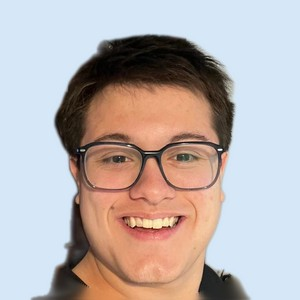
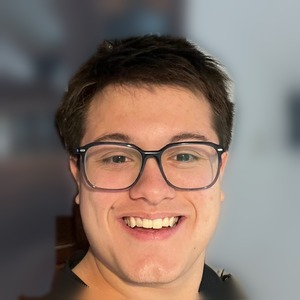
Inicio sin huecos, foto redonda con fondo difuminado, firma animada y pie de página nuevo

diff --git a/index.html b/index.html
@@ -89,14 +89,14 @@
     <!-- ============ INICIO ============ -->
     <section class="hero" id="inicio">
       <div class="wrap hero__grid">
-        <div class="hero__main">
-          <div class="hero__id">
-            <img class="hero__photo" src="assets/img/ignacio.jpg" alt="Foto de Ignacio Britos" width="300" height="300">
-            <div>
-              <h1 class="hero__name" data-split>Ignacio Britos</h1>
-              <p class="hero__role mono">desarrollador web full stack</p>
-            </div>
+        <div class="hero__id">
+          <img class="hero__photo" src="assets/img/ignacio.jpg" alt="Foto de Ignacio Britos" width="300" height="300">
+          <div>
+            <h1 class="hero__name" data-split>Ignacio Britos</h1>
+            <p class="hero__role mono">desarrollador web full stack</p>
           </div>
+        </div>
+        <div class="hero__main">
           <p class="hero__lead reveal">Hago webs a medida, del diseño al backend, pensadas para resolver la necesidad concreta de cada persona o negocio. Integro herramientas automáticas e IA para que la experiencia de quien la usa sea más simple y rápida.</p>
           <ul class="hero__meta reveal">
             <li>
@@ -662,12 +662,12 @@
             <span>escribime</span>
           </a>
           <a class="link-card reveal" href="https://github.com/IgnacioBritoss" target="_blank" rel="noopener">
-            <svg viewBox="0 0 24 24" aria-hidden="true"><circle cx="6" cy="5" r="2"/><circle cx="6" cy="19" r="2"/><circle cx="18" cy="8" r="2"/><path d="M6 7v10M18 10c0 4-6 3-11 7"/></svg>
+            <svg class="gh-mark" viewBox="0 0 16 16" aria-hidden="true"><path d="M8 0C3.58 0 0 3.58 0 8c0 3.54 2.29 6.53 5.47 7.59.4.07.55-.17.55-.38 0-.19-.01-.82-.01-1.49-2.01.37-2.53-.49-2.69-.94-.09-.23-.48-.94-.82-1.13-.28-.15-.68-.52-.01-.53.63-.01 1.08.58 1.23.82.72 1.21 1.87.87 2.33.66.07-.52.28-.87.51-1.07-1.78-.2-3.64-.89-3.64-3.95 0-.87.31-1.59.82-2.15-.08-.2-.36-1.02.08-2.12 0 0 .67-.21 2.2.82.64-.18 1.32-.27 2-.27.68 0 1.36.09 2 .27 1.53-1.04 2.2-.82 2.2-.82.44 1.1.16 1.92.08 2.12.51.56.82 1.27.82 2.15 0 3.07-1.87 3.75-3.65 3.95.29.25.54.73.54 1.48 0 1.07-.01 1.93-.01 2.2 0 .21.15.46.55.38A8.013 8.013 0 0016 8c0-4.42-3.58-8-8-8z"/></svg>
             <strong>IgnacioBritoss</strong>
             <span>en GitHub</span>
           </a>
           <div class="sign reveal">
-            <span class="firma firma--draw"><img class="firma__osc" src="assets/img/firma.png" alt="Firma de Ignacio Britos" width="467" height="189"><img class="firma__cla" src="assets/img/firma-clara.png" alt="" width="467" height="189"></span>
+            <svg class="firma-svg firma-svg--draw" viewBox="0 0 459 182" role="img" aria-label="Firma de Ignacio Britos"><path pathLength="1" style="--d:0.00s;--t:0.34s" d="M143.0 94.0 Q143.0 105.0 142.5 105.5 Q142.0 106.0 142.0 107.5 Q142.0 109.0 140.0 114.0 Q138.0 119.0 135.5 122.5 Q133.0 126.0 127.0 131.5 Q121.0 137.0 115.5 140.0 Q110.0 143.0 107.0 143.5 Q104.0 144.0 102.0 145.0 Q100.0 146.0 96.0 146.5 Q92.0 147.0 91.5 147.5 Q91.0 148.0 86.0 148.0 Q81.0 148.0 80.5 148.5 Q80.0 149.0 71.5 148.5 Q63.0 148.0 62.5 147.5 Q62.0 147.0 57.5 146.5 Q53.0 146.0 46.0 144.0 Q39.0 142.0 35.5 140.0 Q32.0 138.0 31.0 138.0 Q30.0 138.0 22.5 133.0 Q15.0 128.0 13.5 126.5 Q12.0 125.0 10.0 121.5 Q8.0 118.0 8.0 112.5 Q8.0 107.0 13.5 101.0 Q19.0 95.0 24.0 92.0 Q29.0 89.0 28.5 88.5 Q28.0 88.0 28.5 85.0 Q29.0 82.0 31.5 79.5 Q34.0 77.0 38.0 74.5 Q42.0 72.0 49.0 70.0 Q56.0 68.0 63.0 67.5 L70.0 67.0"/><path pathLength="1" style="--d:0.39s;--t:0.27s" d="M27.0 33.0 Q33.0 28.0 39.0 25.0 Q45.0 22.0 46.5 22.0 Q48.0 22.0 50.0 21.0 Q52.0 20.0 55.0 20.0 Q58.0 20.0 60.0 19.0 Q62.0 18.0 71.5 17.5 Q81.0 17.0 81.5 16.5 Q82.0 16.0 94.0 16.0 Q106.0 16.0 106.5 16.5 Q107.0 17.0 109.5 17.0 Q112.0 17.0 116.0 18.5 Q120.0 20.0 122.0 21.5 Q124.0 23.0 127.0 26.5 Q130.0 30.0 132.0 35.0 Q134.0 40.0 134.0 45.5 Q134.0 51.0 132.0 56.0 Q130.0 61.0 126.0 66.0 Q122.0 71.0 119.5 71.0 Q117.0 71.0 116.5 71.5 Q116.0 72.0 115.0 71.0 Q114.0 70.0 112.5 70.0 Q111.0 70.0 110.5 69.5 Q110.0 69.0 102.5 68.5 Q95.0 68.0 94.5 67.5 Q94.0 67.0 84.0 67.0 L74.0 67.0"/><path pathLength="1" style="--d:0.71s;--t:0.06s" d="M30.0 89.0 Q33.0 87.0 34.5 87.0 Q36.0 87.0 37.5 86.0 Q39.0 85.0 44.0 83.5 Q49.0 82.0 54.5 81.5 Q60.0 81.0 60.5 80.5 Q61.0 80.0 67.5 80.0 Q74.0 80.0 74.5 79.5 L75.0 79.0"/><path pathLength="1" style="--d:0.82s;--t:0.07s" d="M30.0 91.0 Q33.0 95.0 37.5 96.5 Q42.0 98.0 49.0 98.0 Q56.0 98.0 56.5 97.5 Q57.0 97.0 62.0 96.5 Q67.0 96.0 69.0 95.0 Q71.0 94.0 75.0 93.5 Q79.0 93.0 79.5 92.5 L80.0 92.0"/><path pathLength="1" style="--d:0.94s;--t:0.06s" d="M57 9 L59 18"/><path pathLength="1" style="--d:1.05s;--t:0.06s" d="M60.0 20.0 Q61.0 30.0 61.5 30.5 Q62.0 31.0 63.0 36.5 Q64.0 42.0 65.0 44.0 Q66.0 46.0 66.0 47.5 Q66.0 49.0 67.0 51.0 Q68.0 53.0 68.0 54.5 Q68.0 56.0 69.0 57.5 Q70.0 59.0 70.5 62.5 L71.0 66.0"/><path pathLength="1" style="--d:1.16s;--t:0.06s" d="M73.0 68.0 Q74.0 69.0 74.5 74.0 L75.0 79.0"/><path pathLength="1" style="--d:1.27s;--t:0.06s" d="M78 81 L80 90"/><path pathLength="1" style="--d:1.38s;--t:0.08s" d="M79.0 80.0 Q95.0 80.0 96.0 81.0 Q97.0 82.0 102.5 82.0 Q108.0 82.0 109.5 83.0 Q111.0 84.0 118.0 86.0 Q125.0 88.0 128.0 89.5 Q131.0 91.0 135.5 91.5 L140.0 92.0"/><path pathLength="1" style="--d:1.51s;--t:0.06s" d="M81.0 92.0 Q93.0 125.0 93.0 127.0 L93.0 129.0"/><path pathLength="1" style="--d:1.62s;--t:0.06s" d="M82.0 91.0 Q93.0 87.0 95.0 84.5 L97.0 82.0"/><path pathLength="1" style="--d:1.73s;--t:0.06s" d="M108.0 81.0 Q114.0 76.0 115.0 74.0 L116.0 72.0"/><path pathLength="1" style="--d:1.84s;--t:0.06s" d="M123.0 72.0 Q131.0 76.0 134.5 79.0 Q138.0 82.0 139.0 83.5 Q140.0 85.0 140.5 88.0 L141.0 91.0"/><path pathLength="1" style="--d:1.95s;--t:0.23s" d="M144.0 93.0 Q153.0 93.0 156.0 91.5 Q159.0 90.0 161.0 88.0 Q163.0 86.0 164.0 84.0 Q165.0 82.0 166.5 74.5 Q168.0 67.0 170.5 64.5 Q173.0 62.0 174.5 62.0 Q176.0 62.0 176.5 61.5 Q177.0 61.0 182.5 61.0 Q188.0 61.0 189.5 62.0 Q191.0 63.0 191.5 64.5 Q192.0 66.0 192.0 70.5 Q192.0 75.0 194.5 79.5 Q197.0 84.0 199.5 86.5 Q202.0 89.0 204.0 89.0 Q206.0 89.0 207.5 87.0 Q209.0 85.0 210.5 80.5 Q212.0 76.0 212.5 71.0 Q213.0 66.0 213.5 65.5 Q214.0 65.0 213.0 57.5 Q212.0 50.0 208.5 47.0 Q205.0 44.0 203.5 41.5 Q202.0 39.0 199.0 37.0 Q196.0 35.0 193.5 32.5 Q191.0 30.0 190.5 30.5 Q190.0 31.0 188.5 31.0 Q187.0 31.0 186.5 30.5 Q186.0 30.0 184.5 30.5 L183.0 31.0"/><path pathLength="1" style="--d:2.23s;--t:0.33s" d="M184.0 142.0 Q202.0 139.0 202.5 138.5 Q203.0 138.0 211.5 137.0 Q220.0 136.0 220.5 135.5 Q221.0 135.0 223.0 135.0 Q225.0 135.0 225.5 134.5 Q226.0 134.0 228.0 134.0 Q230.0 134.0 230.5 133.5 Q231.0 133.0 233.0 133.0 Q235.0 133.0 235.5 132.5 Q236.0 132.0 238.0 132.0 Q240.0 132.0 243.0 131.0 Q246.0 130.0 248.5 130.0 Q251.0 130.0 254.0 129.0 Q257.0 128.0 265.5 127.0 Q274.0 126.0 274.5 125.5 Q275.0 125.0 282.5 123.5 Q290.0 122.0 291.5 120.0 Q293.0 118.0 296.0 117.5 Q299.0 117.0 303.5 115.0 Q308.0 113.0 310.5 112.5 Q313.0 112.0 314.5 111.0 Q316.0 110.0 318.5 109.5 Q321.0 109.0 332.0 103.5 Q343.0 98.0 349.0 94.0 Q355.0 90.0 357.5 87.5 Q360.0 85.0 360.5 83.0 Q361.0 81.0 360.5 80.5 Q360.0 80.0 355.0 80.5 Q350.0 81.0 346.0 82.5 Q342.0 84.0 333.0 86.0 Q324.0 88.0 322.0 89.0 Q320.0 90.0 318.0 90.0 Q316.0 90.0 315.5 90.5 Q315.0 91.0 313.0 90.5 Q311.0 90.0 304.5 92.5 L298.0 95.0"/><path pathLength="1" style="--d:2.61s;--t:0.09s" d="M193.0 30.0 Q194.0 29.0 203.0 29.0 Q212.0 29.0 212.5 29.5 Q213.0 30.0 216.0 30.0 Q219.0 30.0 220.0 31.0 Q221.0 32.0 226.5 32.0 Q232.0 32.0 232.5 31.5 Q233.0 31.0 248.0 31.0 Q263.0 31.0 263.5 30.5 L264.0 30.0"/><path pathLength="1" style="--d:2.76s;--t:0.06s" d="M204.0 40.0 Q207.0 37.0 212.5 36.0 Q218.0 35.0 219.5 33.5 L221.0 32.0"/><path pathLength="1" style="--d:2.87s;--t:0.07s" d="M213.0 50.0 Q219.0 50.0 225.5 52.5 Q232.0 55.0 234.0 57.0 Q236.0 59.0 236.5 60.5 Q237.0 62.0 237.0 70.5 Q237.0 79.0 238.0 80.0 Q239.0 81.0 238.0 82.5 Q237.0 84.0 237.0 85.5 L237.0 87.0"/><path pathLength="1" style="--d:2.99s;--t:0.19s" d="M239.0 81.0 Q242.0 81.0 244.5 83.5 Q247.0 86.0 250.5 87.0 Q254.0 88.0 266.5 88.5 Q279.0 89.0 279.5 88.5 Q280.0 88.0 282.0 88.0 Q284.0 88.0 285.5 86.5 Q287.0 85.0 287.5 83.5 Q288.0 82.0 291.5 82.0 Q295.0 82.0 298.0 81.0 Q301.0 80.0 313.0 74.0 Q325.0 68.0 329.5 66.5 Q334.0 65.0 337.0 65.0 Q340.0 65.0 340.5 65.5 Q341.0 66.0 340.5 67.5 Q340.0 69.0 338.0 71.0 Q336.0 73.0 325.5 79.0 Q315.0 85.0 314.0 87.0 L313.0 89.0"/><path pathLength="1" style="--d:3.23s;--t:0.06s" d="M243.0 80.0 Q248.0 77.0 259.0 76.5 Q270.0 76.0 274.0 78.0 Q278.0 80.0 279.5 80.0 Q281.0 80.0 282.5 81.0 Q284.0 82.0 285.0 82.0 L286.0 82.0"/><path pathLength="1" style="--d:3.34s;--t:0.23s" d="M281.0 172.0 Q283.0 173.0 287.0 171.0 Q291.0 169.0 292.0 170.0 Q293.0 171.0 294.0 171.0 Q295.0 171.0 297.0 170.0 Q299.0 169.0 309.5 166.5 Q320.0 164.0 325.0 162.0 Q330.0 160.0 331.5 160.0 Q333.0 160.0 338.0 158.0 Q343.0 156.0 344.5 156.0 Q346.0 156.0 397.5 138.0 L449.0 120.0"/><path pathLength="1" style="--d:3.61s;--t:0.33s" d="M290.0 122.0 Q292.0 124.0 293.5 124.0 Q295.0 124.0 295.5 123.5 Q296.0 123.0 306.5 122.0 Q317.0 121.0 320.5 120.0 Q324.0 119.0 327.0 119.0 Q330.0 119.0 333.5 118.0 Q337.0 117.0 350.5 115.5 Q364.0 114.0 364.5 113.5 Q365.0 113.0 378.0 111.5 Q391.0 110.0 391.5 109.5 Q392.0 109.0 396.5 109.0 Q401.0 109.0 401.5 108.5 Q402.0 108.0 406.0 108.0 Q410.0 108.0 410.5 108.5 Q411.0 109.0 411.0 110.0 Q411.0 111.0 409.5 112.5 Q408.0 114.0 405.0 115.0 Q402.0 116.0 398.0 118.5 Q394.0 121.0 393.0 121.0 Q392.0 121.0 386.5 124.0 Q381.0 127.0 380.0 127.0 Q379.0 127.0 374.5 129.5 Q370.0 132.0 369.0 132.0 Q368.0 132.0 351.0 140.0 Q334.0 148.0 330.5 149.0 Q327.0 150.0 318.0 154.5 Q309.0 159.0 305.5 160.0 Q302.0 161.0 297.0 164.5 L292.0 168.0"/></svg>
             <p class="mono">Ignacio Britos</p>
           </div>
         </div>
@@ -677,9 +677,28 @@
 
   <footer class="footer">
     <div class="wrap footer__in">
-      <span class="footer__me"><img class="firma firma--foot" src="assets/img/firma-clara.png" alt="Firma de Ignacio Britos" width="467" height="189">Ignacio Britos, Buenos Aires</span>
-      <a href="https://github.com/IgnacioBritoss" target="_blank" rel="noopener">GitHub</a>
-      <a href="#inicio">Volver arriba</a>
+      <div class="footer__me">
+        <svg class="firma-svg" viewBox="0 0 459 182" aria-hidden="true"><path d="M143.0 94.0 Q143.0 105.0 142.5 105.5 Q142.0 106.0 142.0 107.5 Q142.0 109.0 140.0 114.0 Q138.0 119.0 135.5 122.5 Q133.0 126.0 127.0 131.5 Q121.0 137.0 115.5 140.0 Q110.0 143.0 107.0 143.5 Q104.0 144.0 102.0 145.0 Q100.0 146.0 96.0 146.5 Q92.0 147.0 91.5 147.5 Q91.0 148.0 86.0 148.0 Q81.0 148.0 80.5 148.5 Q80.0 149.0 71.5 148.5 Q63.0 148.0 62.5 147.5 Q62.0 147.0 57.5 146.5 Q53.0 146.0 46.0 144.0 Q39.0 142.0 35.5 140.0 Q32.0 138.0 31.0 138.0 Q30.0 138.0 22.5 133.0 Q15.0 128.0 13.5 126.5 Q12.0 125.0 10.0 121.5 Q8.0 118.0 8.0 112.5 Q8.0 107.0 13.5 101.0 Q19.0 95.0 24.0 92.0 Q29.0 89.0 28.5 88.5 Q28.0 88.0 28.5 85.0 Q29.0 82.0 31.5 79.5 Q34.0 77.0 38.0 74.5 Q42.0 72.0 49.0 70.0 Q56.0 68.0 63.0 67.5 L70.0 67.0"/><path d="M27.0 33.0 Q33.0 28.0 39.0 25.0 Q45.0 22.0 46.5 22.0 Q48.0 22.0 50.0 21.0 Q52.0 20.0 55.0 20.0 Q58.0 20.0 60.0 19.0 Q62.0 18.0 71.5 17.5 Q81.0 17.0 81.5 16.5 Q82.0 16.0 94.0 16.0 Q106.0 16.0 106.5 16.5 Q107.0 17.0 109.5 17.0 Q112.0 17.0 116.0 18.5 Q120.0 20.0 122.0 21.5 Q124.0 23.0 127.0 26.5 Q130.0 30.0 132.0 35.0 Q134.0 40.0 134.0 45.5 Q134.0 51.0 132.0 56.0 Q130.0 61.0 126.0 66.0 Q122.0 71.0 119.5 71.0 Q117.0 71.0 116.5 71.5 Q116.0 72.0 115.0 71.0 Q114.0 70.0 112.5 70.0 Q111.0 70.0 110.5 69.5 Q110.0 69.0 102.5 68.5 Q95.0 68.0 94.5 67.5 Q94.0 67.0 84.0 67.0 L74.0 67.0"/><path d="M30.0 89.0 Q33.0 87.0 34.5 87.0 Q36.0 87.0 37.5 86.0 Q39.0 85.0 44.0 83.5 Q49.0 82.0 54.5 81.5 Q60.0 81.0 60.5 80.5 Q61.0 80.0 67.5 80.0 Q74.0 80.0 74.5 79.5 L75.0 79.0"/><path d="M30.0 91.0 Q33.0 95.0 37.5 96.5 Q42.0 98.0 49.0 98.0 Q56.0 98.0 56.5 97.5 Q57.0 97.0 62.0 96.5 Q67.0 96.0 69.0 95.0 Q71.0 94.0 75.0 93.5 Q79.0 93.0 79.5 92.5 L80.0 92.0"/><path d="M57 9 L59 18"/><path d="M60.0 20.0 Q61.0 30.0 61.5 30.5 Q62.0 31.0 63.0 36.5 Q64.0 42.0 65.0 44.0 Q66.0 46.0 66.0 47.5 Q66.0 49.0 67.0 51.0 Q68.0 53.0 68.0 54.5 Q68.0 56.0 69.0 57.5 Q70.0 59.0 70.5 62.5 L71.0 66.0"/><path d="M73.0 68.0 Q74.0 69.0 74.5 74.0 L75.0 79.0"/><path d="M78 81 L80 90"/><path d="M79.0 80.0 Q95.0 80.0 96.0 81.0 Q97.0 82.0 102.5 82.0 Q108.0 82.0 109.5 83.0 Q111.0 84.0 118.0 86.0 Q125.0 88.0 128.0 89.5 Q131.0 91.0 135.5 91.5 L140.0 92.0"/><path d="M81.0 92.0 Q93.0 125.0 93.0 127.0 L93.0 129.0"/><path d="M82.0 91.0 Q93.0 87.0 95.0 84.5 L97.0 82.0"/><path d="M108.0 81.0 Q114.0 76.0 115.0 74.0 L116.0 72.0"/><path d="M123.0 72.0 Q131.0 76.0 134.5 79.0 Q138.0 82.0 139.0 83.5 Q140.0 85.0 140.5 88.0 L141.0 91.0"/><path d="M144.0 93.0 Q153.0 93.0 156.0 91.5 Q159.0 90.0 161.0 88.0 Q163.0 86.0 164.0 84.0 Q165.0 82.0 166.5 74.5 Q168.0 67.0 170.5 64.5 Q173.0 62.0 174.5 62.0 Q176.0 62.0 176.5 61.5 Q177.0 61.0 182.5 61.0 Q188.0 61.0 189.5 62.0 Q191.0 63.0 191.5 64.5 Q192.0 66.0 192.0 70.5 Q192.0 75.0 194.5 79.5 Q197.0 84.0 199.5 86.5 Q202.0 89.0 204.0 89.0 Q206.0 89.0 207.5 87.0 Q209.0 85.0 210.5 80.5 Q212.0 76.0 212.5 71.0 Q213.0 66.0 213.5 65.5 Q214.0 65.0 213.0 57.5 Q212.0 50.0 208.5 47.0 Q205.0 44.0 203.5 41.5 Q202.0 39.0 199.0 37.0 Q196.0 35.0 193.5 32.5 Q191.0 30.0 190.5 30.5 Q190.0 31.0 188.5 31.0 Q187.0 31.0 186.5 30.5 Q186.0 30.0 184.5 30.5 L183.0 31.0"/><path d="M184.0 142.0 Q202.0 139.0 202.5 138.5 Q203.0 138.0 211.5 137.0 Q220.0 136.0 220.5 135.5 Q221.0 135.0 223.0 135.0 Q225.0 135.0 225.5 134.5 Q226.0 134.0 228.0 134.0 Q230.0 134.0 230.5 133.5 Q231.0 133.0 233.0 133.0 Q235.0 133.0 235.5 132.5 Q236.0 132.0 238.0 132.0 Q240.0 132.0 243.0 131.0 Q246.0 130.0 248.5 130.0 Q251.0 130.0 254.0 129.0 Q257.0 128.0 265.5 127.0 Q274.0 126.0 274.5 125.5 Q275.0 125.0 282.5 123.5 Q290.0 122.0 291.5 120.0 Q293.0 118.0 296.0 117.5 Q299.0 117.0 303.5 115.0 Q308.0 113.0 310.5 112.5 Q313.0 112.0 314.5 111.0 Q316.0 110.0 318.5 109.5 Q321.0 109.0 332.0 103.5 Q343.0 98.0 349.0 94.0 Q355.0 90.0 357.5 87.5 Q360.0 85.0 360.5 83.0 Q361.0 81.0 360.5 80.5 Q360.0 80.0 355.0 80.5 Q350.0 81.0 346.0 82.5 Q342.0 84.0 333.0 86.0 Q324.0 88.0 322.0 89.0 Q320.0 90.0 318.0 90.0 Q316.0 90.0 315.5 90.5 Q315.0 91.0 313.0 90.5 Q311.0 90.0 304.5 92.5 L298.0 95.0"/><path d="M193.0 30.0 Q194.0 29.0 203.0 29.0 Q212.0 29.0 212.5 29.5 Q213.0 30.0 216.0 30.0 Q219.0 30.0 220.0 31.0 Q221.0 32.0 226.5 32.0 Q232.0 32.0 232.5 31.5 Q233.0 31.0 248.0 31.0 Q263.0 31.0 263.5 30.5 L264.0 30.0"/><path d="M204.0 40.0 Q207.0 37.0 212.5 36.0 Q218.0 35.0 219.5 33.5 L221.0 32.0"/><path d="M213.0 50.0 Q219.0 50.0 225.5 52.5 Q232.0 55.0 234.0 57.0 Q236.0 59.0 236.5 60.5 Q237.0 62.0 237.0 70.5 Q237.0 79.0 238.0 80.0 Q239.0 81.0 238.0 82.5 Q237.0 84.0 237.0 85.5 L237.0 87.0"/><path d="M239.0 81.0 Q242.0 81.0 244.5 83.5 Q247.0 86.0 250.5 87.0 Q254.0 88.0 266.5 88.5 Q279.0 89.0 279.5 88.5 Q280.0 88.0 282.0 88.0 Q284.0 88.0 285.5 86.5 Q287.0 85.0 287.5 83.5 Q288.0 82.0 291.5 82.0 Q295.0 82.0 298.0 81.0 Q301.0 80.0 313.0 74.0 Q325.0 68.0 329.5 66.5 Q334.0 65.0 337.0 65.0 Q340.0 65.0 340.5 65.5 Q341.0 66.0 340.5 67.5 Q340.0 69.0 338.0 71.0 Q336.0 73.0 325.5 79.0 Q315.0 85.0 314.0 87.0 L313.0 89.0"/><path d="M243.0 80.0 Q248.0 77.0 259.0 76.5 Q270.0 76.0 274.0 78.0 Q278.0 80.0 279.5 80.0 Q281.0 80.0 282.5 81.0 Q284.0 82.0 285.0 82.0 L286.0 82.0"/><path d="M281.0 172.0 Q283.0 173.0 287.0 171.0 Q291.0 169.0 292.0 170.0 Q293.0 171.0 294.0 171.0 Q295.0 171.0 297.0 170.0 Q299.0 169.0 309.5 166.5 Q320.0 164.0 325.0 162.0 Q330.0 160.0 331.5 160.0 Q333.0 160.0 338.0 158.0 Q343.0 156.0 344.5 156.0 Q346.0 156.0 397.5 138.0 L449.0 120.0"/><path d="M290.0 122.0 Q292.0 124.0 293.5 124.0 Q295.0 124.0 295.5 123.5 Q296.0 123.0 306.5 122.0 Q317.0 121.0 320.5 120.0 Q324.0 119.0 327.0 119.0 Q330.0 119.0 333.5 118.0 Q337.0 117.0 350.5 115.5 Q364.0 114.0 364.5 113.5 Q365.0 113.0 378.0 111.5 Q391.0 110.0 391.5 109.5 Q392.0 109.0 396.5 109.0 Q401.0 109.0 401.5 108.5 Q402.0 108.0 406.0 108.0 Q410.0 108.0 410.5 108.5 Q411.0 109.0 411.0 110.0 Q411.0 111.0 409.5 112.5 Q408.0 114.0 405.0 115.0 Q402.0 116.0 398.0 118.5 Q394.0 121.0 393.0 121.0 Q392.0 121.0 386.5 124.0 Q381.0 127.0 380.0 127.0 Q379.0 127.0 374.5 129.5 Q370.0 132.0 369.0 132.0 Q368.0 132.0 351.0 140.0 Q334.0 148.0 330.5 149.0 Q327.0 150.0 318.0 154.5 Q309.0 159.0 305.5 160.0 Q302.0 161.0 297.0 164.5 L292.0 168.0"/></svg>
+        <div>
+          <b>Ignacio Britos</b>
+          <span>Desarrollador web, Buenos Aires</span>
+        </div>
+      </div>
+      <nav class="footer__nav mono" aria-label="Secciones">
+        <a href="#inicio">Inicio</a>
+        <a href="#proyectos">Proyectos</a>
+        <a href="#datos">Datos</a>
+        <a href="#contacto">Contacto</a>
+      </nav>
+      <div class="footer__icons">
+        <a class="footer__ico" href="mailto:britosignacio106@gmail.com" aria-label="Escribime un mail" data-tip="Mail"><svg viewBox="0 0 24 24" aria-hidden="true"><rect x="3" y="5" width="18" height="14"/><path d="M3 6l9 7 9-7"/></svg></a>
+        <a class="footer__ico" href="https://github.com/IgnacioBritoss" target="_blank" rel="noopener" aria-label="Mi GitHub" data-tip="GitHub"><svg class="gh-mark" viewBox="0 0 16 16" aria-hidden="true"><path d="M8 0C3.58 0 0 3.58 0 8c0 3.54 2.29 6.53 5.47 7.59.4.07.55-.17.55-.38 0-.19-.01-.82-.01-1.49-2.01.37-2.53-.49-2.69-.94-.09-.23-.48-.94-.82-1.13-.28-.15-.68-.52-.01-.53.63-.01 1.08.58 1.23.82.72 1.21 1.87.87 2.33.66.07-.52.28-.87.51-1.07-1.78-.2-3.64-.89-3.64-3.95 0-.87.31-1.59.82-2.15-.08-.2-.36-1.02.08-2.12 0 0 .67-.21 2.2.82.64-.18 1.32-.27 2-.27.68 0 1.36.09 2 .27 1.53-1.04 2.2-.82 2.2-.82.44 1.1.16 1.92.08 2.12.51.56.82 1.27.82 2.15 0 3.07-1.87 3.75-3.65 3.95.29.25.54.73.54 1.48 0 1.07-.01 1.93-.01 2.2 0 .21.15.46.55.38A8.013 8.013 0 0016 8c0-4.42-3.58-8-8-8z"/></svg></a>
+        <a class="footer__ico footer__up" href="#inicio" aria-label="Volver arriba" data-tip="Arriba"><svg viewBox="0 0 24 24" aria-hidden="true"><path d="M12 19V5M5 12l7-7 7 7"/></svg></a>
+      </div>
+    </div>
+    <div class="wrap footer__bottom mono">
+      <span>© 2026 Ignacio Britos</span>
+      <a href="https://github.com/IgnacioBritoss" target="_blank" rel="noopener">github.com/IgnacioBritoss</a>
     </div>
   </footer>
 

diff --git a/styles.css b/styles.css
@@ -29,6 +29,7 @@
   --wait: #B7791F;
 
   --font: "Space Grotesk", system-ui, sans-serif;
+  --font-head: "Space Grotesk", system-ui, sans-serif;
   --mono: "JetBrains Mono", ui-monospace, monospace;
   /* arranca fuerte y frena largo */
   --salida: cubic-bezier(.22, 1, .36, 1);
@@ -79,6 +80,7 @@ p, li, label, figcaption, td { letter-spacing: var(--tracking); word-spacing: va
 
 html { scroll-behavior: smooth; scroll-padding-top: 76px; }
 
+html, body { overflow-x: clip; }
 body {
   margin: 0;
   font-family: var(--font);
@@ -95,7 +97,8 @@ body {
 img { display: block; max-width: 100%; height: auto; }
 svg { flex-shrink: 0; }
 a { color: inherit; }
-h1, h2, h3 { margin: 0; line-height: 1.15; font-weight: 700; letter-spacing: -.01em; }
+h1, h2, h3 { margin: 0; font-family: var(--font-head); line-height: 1.15; font-weight: 700; letter-spacing: -.01em; }
+.proj__name, .brand, .btn, .stat strong, .hero__stats strong, .fact strong, .link-card strong { font-family: var(--font-head); }
 p { margin: 0; }
 ul, ol { margin: 0; padding: 0; list-style: none; }
 button, input, textarea { font: inherit; color: inherit; letter-spacing: inherit; }
@@ -237,15 +240,18 @@ svg[viewBox="0 0 24 24"] {
 
 /* ---------- Hero ---------- */
 .hero { padding: 72px 0 56px; }
-.hero__grid { display: grid; grid-template-columns: 1.25fr 1fr; gap: 40px; align-items: stretch; }
-.hero__id { display: flex; align-items: center; gap: 24px; margin-bottom: 28px; }
+.hero__grid { display: grid; grid-template-columns: 1.15fr 1fr; gap: 28px 56px; align-items: start; }
+.hero__id { grid-column: 1 / -1; display: flex; align-items: center; gap: 28px; margin-bottom: 4px; }
 .hero__photo {
-  width: 128px; height: 128px; object-fit: cover;
-  border: 4px solid var(--sky); background: var(--mist);
+  width: 136px; height: 136px; object-fit: cover; flex-shrink: 0;
+  border-radius: 50% !important; background: var(--mist);
+  /* aro celeste con un respiro del color del fondo */
+  box-shadow: 0 0 0 4px var(--bg), 0 0 0 7px var(--sky), 0 14px 30px -12px rgba(16, 36, 58, .5);
 }
 .hero__name { font-size: clamp(2.6rem, 6vw, 4.4rem); }
 .hero__role { color: var(--accent-text); margin-top: 6px; font-size: 15px; }
-.hero__lead { font-size: clamp(1.15rem, 2vw, 1.4rem); max-width: 34ch; margin-bottom: 24px; }
+.hero__lead { font-size: clamp(1.1rem, 1.8vw, 1.3rem); max-width: 40ch; margin-bottom: 24px; }
+:root[data-reading="on"] .hero__lead { line-height: 1.7; }
 .hero__meta { display: grid; gap: 8px; color: var(--muted); margin-bottom: 32px; }
 .hero__meta li { display: flex; align-items: center; gap: 10px; }
 .hero__meta svg { color: var(--accent); }
@@ -261,7 +267,7 @@ svg[viewBox="0 0 24 24"] {
 .no-js .hero__photo, .no-js .hero__role { animation: none; }
 @keyframes fade-up { from { opacity: 0; transform: translateY(14px); } }
 
-.hero__side { display: grid; gap: 16px; align-content: end; }
+.hero__side { display: grid; gap: 16px; align-content: start; }
 .next { background: var(--blue); color: #fff; padding: 28px; }
 .next__title { font-size: 1.5rem; margin-bottom: 8px; }
 .next p { color: var(--mist); }
@@ -657,24 +663,52 @@ svg[viewBox="0 0 24 24"] {
 .link-card--dark span { color: #A3B6CA; }
 
 /* ---------- Firma ---------- */
-.firma { display: inline-block; }
-.firma img { display: block; width: 100%; height: auto; }
-.firma__cla { display: none !important; }
-:root[data-theme="dark"] .firma__osc { display: none !important; }
-:root[data-theme="dark"] .firma__cla { display: block !important; }
-.sign { display: grid; justify-items: start; gap: 4px; padding: 8px 4px 0; }
-.sign .firma { width: min(240px, 70%); }
+.firma-svg { display: block; width: 100%; height: auto; overflow: visible; }
+.firma-svg path { fill: none; stroke: currentColor; stroke-width: 4.5; stroke-linecap: round; stroke-linejoin: round; }
+.sign { display: grid; justify-items: start; gap: 6px; padding: 8px 4px 0; color: var(--navy); }
+:root[data-theme="dark"] .sign { color: var(--sky); }
+.sign .firma-svg { width: min(250px, 72%); }
 .sign p { font-size: 12px; color: var(--muted); }
-/* la firma se dibuja de izquierda a derecha al aparecer */
-.sc-in .firma--draw { clip-path: inset(0 100% 0 0); }
-.sc-visible .firma--draw { clip-path: inset(0); transition: clip-path 1.6s var(--salida) calc(var(--retraso, 0ms) + .3s); }
-.footer__me { display: inline-flex; align-items: center; gap: 12px; }
-.footer .firma { width: auto; height: 30px; }
+/* se escribe trazo por trazo, como en vivo: cada trazo espera su turno
+   escondido y se dibuja a la velocidad que le corresponde por su largo */
+.sc-in .firma-svg--draw path { stroke-dasharray: 1 2; stroke-dashoffset: 1; opacity: 0; }
+.sc-visible .firma-svg--draw path {
+  stroke-dashoffset: 0; opacity: 1;
+  transition: stroke-dashoffset var(--t) cubic-bezier(.45, .05, .55, .95) calc(var(--d) + .4s), opacity 0s linear calc(var(--d) + .4s);
+}
 
 /* ---------- Pie ---------- */
-.footer { background: var(--ink); color: #A3B6CA; padding: 28px 0; font-size: 14px; }
-.footer__in { display: flex; flex-wrap: wrap; justify-content: space-between; gap: 12px; }
-.footer a { color: var(--sky); }
+.footer { background: var(--ink); color: #A3B6CA; font-size: 14px; border-top: 4px solid var(--blue); }
+.footer__in { display: grid; grid-template-columns: 1fr auto 1fr; align-items: center; gap: 24px; padding: 36px 0 28px; }
+.footer__me { display: flex; align-items: center; gap: 16px; color: var(--sky); }
+.footer__me .firma-svg { width: 92px; }
+.footer__me .firma-svg path { stroke-width: 6; }
+.footer__me b { display: block; color: #fff; font-family: var(--font-head); font-size: 16px; }
+.footer__me span { font-size: 13px; }
+.footer__nav { display: flex; gap: 6px 22px; flex-wrap: wrap; justify-content: center; font-size: 13px; }
+.footer__nav a { color: #C5D3E1; text-decoration: none; transition: color .3s var(--salida); }
+.footer__nav a:hover { color: var(--sky); }
+.footer__icons { display: flex; gap: 8px; justify-content: flex-end; }
+.footer__ico {
+  position: relative; display: grid; place-items: center; width: 44px; height: 44px;
+  border: 1px solid #24425F; color: #E9F1F9;
+  transition: background-color .3s var(--salida), border-color .3s var(--salida), color .3s var(--salida), transform .3s var(--salida);
+}
+.footer__ico:hover { background: var(--sky); border-color: var(--sky); color: var(--ink); transform: translateY(-3px); }
+.footer__up { background: var(--blue); border-color: var(--blue); }
+.footer__ico .gh-mark { width: 20px; height: 20px; fill: currentColor; }
+.footer__ico::after {
+  content: attr(data-tip); position: absolute; bottom: calc(100% + 8px); left: 50%;
+  padding: 4px 8px; white-space: nowrap; pointer-events: none;
+  background: var(--sky); color: var(--ink); font: 500 11px/1.2 var(--mono);
+  opacity: 0; transform: translate(-50%, 4px); transition: opacity .25s var(--salida), transform .25s var(--salida);
+}
+.footer__ico:hover::after, .footer__ico:focus-visible::after { opacity: 1; transform: translate(-50%, 0); }
+.footer__bottom { display: flex; justify-content: space-between; flex-wrap: wrap; gap: 8px; padding: 16px 0 24px; border-top: 1px solid #1A2C42; font-size: 12px; color: #6E8299; }
+.footer__bottom a { color: #6E8299; text-decoration: none; }
+.footer__bottom a:hover { color: var(--sky); }
+.gh-mark { width: 30px; height: 30px; fill: currentColor; }
+.link-card .gh-mark { color: var(--accent); }
 
 /* ---------- Entradas al scrollear ----------
    Las clases las pone el JS: si no corre, todo se ve igual que siempre. */
@@ -714,7 +748,10 @@ svg[viewBox="0 0 24 24"] {
   .brand__name { display: none; }
   .hero { padding-top: 40px; }
   .hero__id { gap: 16px; }
-  .hero__photo { width: 88px; height: 88px; }
+  .hero__photo { width: 92px; height: 92px; }
+  .footer__in { grid-template-columns: 1fr; justify-items: start; }
+  .footer__nav { justify-content: flex-start; }
+  .footer__icons { justify-content: flex-start; }
   .featured, .more { grid-template-columns: 1fr; }
   .section { padding: 64px 0; }
   .case__facts { grid-template-columns: 1fr 1fr; }
